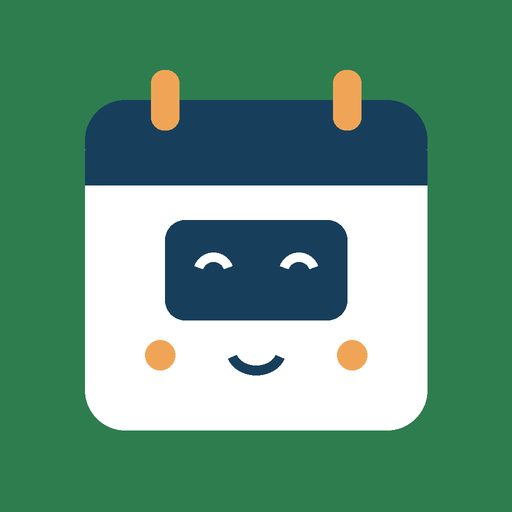
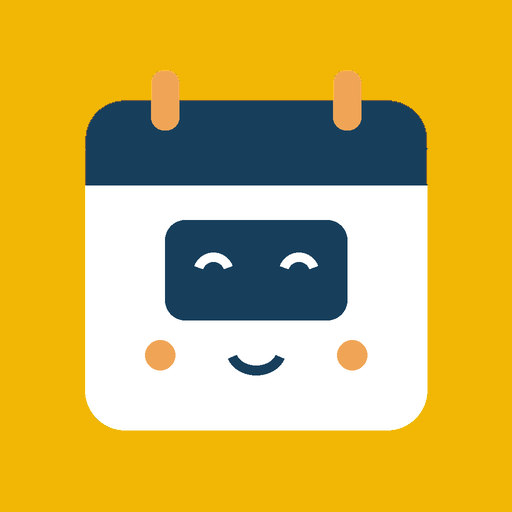
ロゴ(アイコン)の背景を黄色に変更
Claude-Session: https://claude.ai/code/session_0197x2DqAWbLKgJ2XfcG9vj7

diff --git a/index.html b/index.html
@@ -6,8 +6,8 @@
 <meta name="apple-mobile-web-app-title" content="ダンドルくん">
 <meta name="robots" content="noindex">
 <link rel="manifest" href="manifest.webmanifest">
-<link rel="apple-touch-icon" href="apple-touch-icon.png?v=3">
-<link rel="icon" type="image/png" href="icon-192.png?v=3">
+<link rel="apple-touch-icon" href="apple-touch-icon.png?v=4">
+<link rel="icon" type="image/png" href="icon-192.png?v=4">
 <title>ダンドルくん</title>
 <link rel="preconnect" href="https://fonts.googleapis.com">
 <link rel="stylesheet" href="https://fonts.googleapis.com/css2?family=Zen+Kaku+Gothic+New:wght@400;500;700;900&family=IBM+Plex+Mono:wght@500;600&display=swap">
@@ -151,7 +151,7 @@ input,select,textarea{font:inherit;font-size:16px;color:var(--ink);background:va
 <div class="wrap">
   <header>
     <div class="brand">
-      <img src="icon-192.png?v=3" alt="" width="56" height="56">
+      <img src="icon-192.png?v=4" alt="" width="56" height="56">
       <div>
         <h1>ダンドルくん</h1>
         <p class="note">予約から確定まで、お客さんが今どこにいるか</p>

diff --git a/sw.js b/sw.js
@@ -1,4 +1,4 @@
-const CACHE="yaritori-v7";
+const CACHE="yaritori-v8";
 const SHELL=["./","./index.html","./manifest.webmanifest","./icon-192.png","./icon-512.png","./apple-touch-icon.png"];
 self.addEventListener("install",e=>{e.waitUntil(caches.open(CACHE).then(c=>c.addAll(SHELL)));self.skipWaiting()});
 self.addEventListener("activate",e=>{e.waitUntil(caches.keys().then(ks=>Promise.all(ks.filter(k=>k!==CACHE).map(k=>caches.delete(k)))));self.clients.claim()});
